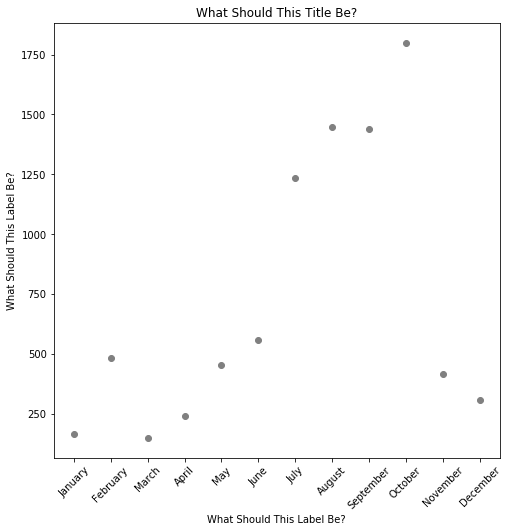
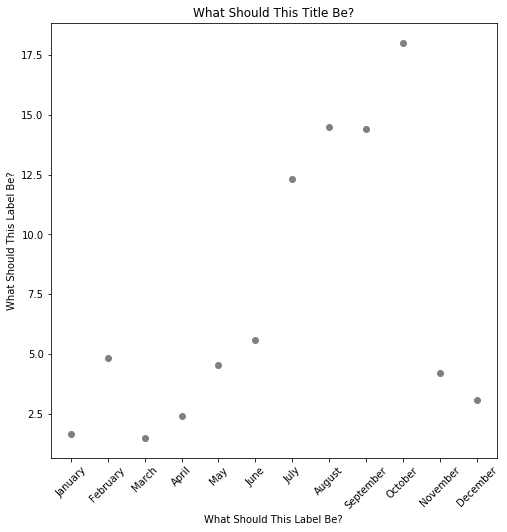
Fix typos on final project

diff --git a/_posts/courses/earth-analytics-bootcamp/00-course-overview/2018-07-16-co-09-final-project.md b/_posts/courses/earth-analytics-bootcamp/00-course-overview/2018-07-16-co-09-final-project.md
@@ -5,7 +5,7 @@ authors: ['Jenny Palomino']
 category: courses
 excerpt:
 nav-title: Final Project
-modified: 2018-08-22
+modified: 2018-08-23
 comments: no
 permalink: /courses/earth-analytics-bootcamp/earth-analytics-bootcamp-final-project/
 author_profile: no
@@ -685,7 +685,7 @@ Hint:
 
 ### Question 8: Calculate Mean Fire Size For Each Year (4 pts)
 
-Use the appropriate function to calculate the mean fire size per year and save as a new dataframe. 
+Use the appropriate function to calculate the mean fire size (in hectares) per year and save as a new dataframe. 
 
 Note: the displayed data below only shows the first few rows in the dataset. 
 
@@ -1108,7 +1108,7 @@ In your `Markdown` documentation, answer the following question:
 
 ### Question 22: Calculate Mean Size of Fire By County (4 pts)
 
-Use the appropriate function to calculate the mean size of fires per county and save as a new dataframe. 
+Use the appropriate function to calculate the mean size of fires (in hectares) per county and save as a new dataframe. 
 
 Note: the displayed data below only shows the first few rows in the dataset. 
 
@@ -1723,9 +1723,9 @@ Execute the function created in the previous question to determine the mean acro
 
 
 
-    array([ 168.6332733 ,  484.25770421,  150.47955323,  243.75366747,
-            454.25173509,  560.12204663, 1233.40263586, 1449.39887227,
-           1439.36417043, 1798.4395972 ,  420.02977816,  308.66045473])
+    array([ 1.68633273,  4.84257704,  1.50479553,  2.43753667,  4.54251735,
+            5.60122047, 12.33402636, 14.49398872, 14.3936417 , 17.98439597,
+            4.20029778,  3.08660455])
 
 
 
